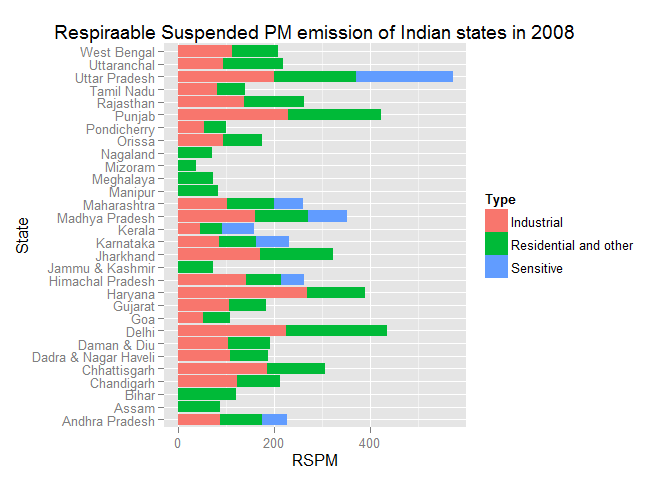
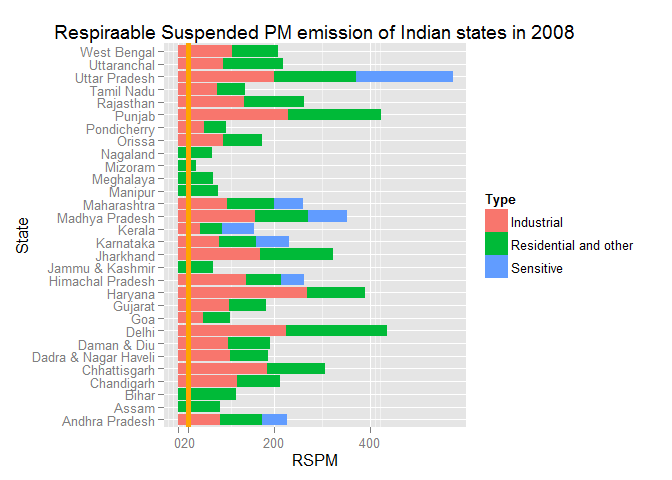
Added info from WHO Air quality giudeline

Changed region(s): [[0.25, 0.0938, 0.2812, 0.875], [0.25, 0.9062, 0.3125, 0.9375]]

diff --git a/Air_quality.html b/Air_quality.html
@@ -72,6 +72,7 @@ img {
 <hr />
 <div id="synopsis" class="section level3">
 <h3>Synopsis</h3>
+<p>The IARC and WHO designate airborne particulates a Group 1 carcinogen. Particulates are the deadliest form of air pollution due to their ability to penetrate deep into the lungs and blood streams unfiltered, causing permanent DNA mutations, heart attacks, and premature death.[4] In 2013, a study involving 312,944 people in nine European countries revealed that there was no safe level of particulates and that for every increase of 10 ??g/m3 in PM10, the lung cancer rate rose 22%. The smaller PM2.5 were particularly deadly, with a 36% increase in lung cancer per 10 ??g/m3 as it can penetrate deeper into the lungs.<a href="#fn1" class="footnoteRef" id="fnref1"><sup>1</sup></a>(<a href="https://en.wikipedia.org/wiki/Particulates" class="uri">https://en.wikipedia.org/wiki/Particulates</a>)</p>
 <p>The ambient air quality monitoring network comprises of 342 monitoring stations covering 128 cities/towns of the country. The data is sourced from National ambient air quality status &amp; trends in India-2008(NAMP). NA- Data not available/outlier/not classified(Less than 50 Monitoring days) ; n- number of days monitored for 16 and more hours a day; Low, Moderate, High and Critical levels of pollution based on exceedence factor (calculated for n &gt;50 days), percentage violation of NAAQS (24 hourly average).<br />Here we make a descriptive analysis of the air quality of all the states as per the type of pollutants.</p>
 <pre class="r"><code>library(ggplot2)
 library(dplyr)</code></pre>
@@ -96,13 +97,29 @@ colnames(air.quality)[5:7] &lt;- c('Confidence', 'RSPM', 'Percentage')
 air.quality &lt;- group_by(air.quality, State, Type)
 air.quality &lt;- summarise(air.quality, RSPM = mean(RSPM))
 ggplot(air.quality, aes(x = State, y = RSPM)) + geom_bar(stat = 'identity', aes(fill = Type)) +
-labs(title = 'Respiraable Suspended PM emission of Indian states in 2008', xlab = 'States', ylab = 'Particulate matter') + coord_flip()</code></pre>
[1 lines of base64/hex data omitted]
+  geom_hline(yintercept = 20, color = 'orange', size = 2) +
+  scale_y_continuous(breaks = c(0, 20, 200, 400)) +
+  labs(title = 'Respiraable Suspended PM emission of Indian states in 2008', xlab = 'States', ylab = 'Particulate matter (??g/m^3)') + coord_flip()</code></pre>
[1 lines of base64/hex data omitted]
 <hr />
 </div>
 <div id="result" class="section level3">
 <h3>Result</h3>
-<p>Uttar Pradesh has the highest cumulative PM(particulate matter) emission in the country, while Haryana has the highest Industrial PM emission followed by Delhi.</p>
+<p>Uttar Pradesh has the highest cumulative PM(particulate matter) emission in the country, while Haryana has the highest Industrial PM emission followed by Delhi. The recommeded PM10 levels in atmosphere is given to by 20 ??g/m^3 as per <a href="http://www.who.int/mediacentre/factsheets/fs313/en/">WHO</a>. We can see that none of the states have comply with the <em>WHO Air Quality Giudelines</em> value for Pm^10 levels.</p>
+<hr />
+</div>
+<div id="references" class="section level3">
+<h3>References</h3>
+<ol style="list-style-type: decimal">
+<li><a href="https://data.gov.in/catalog/air-quality-respect-respirable-suspended-particulate-matterrspm-air-quality-stations-under#web_catalog_tabs_block_10">Open data Gov, India</a></li>
+<li><a href="http://www.who.int/mediacentre/factsheets/fs313/en/">WHO</a>??g/m^3</li>
+</ol>
+</div>
+<div class="footnotes">
+<hr />
+<ol>
+<li id="fn1"><p>1<a href="#fnref1">↩</a></p></li>
+</ol>
 </div>
 
 

diff --git a/Air_quality.md b/Air_quality.md
@@ -8,6 +8,8 @@ Air Quality with respect to Respirable Suspended Particulate Matter(RSPM) in air
 
 ### Synopsis
 
+The IARC and WHO designate airborne particulates a Group 1 carcinogen. Particulates are the deadliest form of air pollution due to their ability to penetrate deep into the lungs and blood streams unfiltered, causing permanent DNA mutations, heart attacks, and premature death.[4] In 2013, a study involving 312,944 people in nine European countries revealed that there was no safe level of particulates and that for every increase of 10 ??g/m3 in PM10, the lung cancer rate rose 22%. The smaller PM2.5 were particularly deadly, with a 36% increase in lung cancer per 10 ??g/m3 as it can penetrate deeper into the lungs.^[1](https://en.wikipedia.org/wiki/Particulates)
+
 The ambient air quality monitoring network comprises of 342 monitoring stations covering 128 cities/towns of the country. The data is sourced from National ambient air quality status & trends in India-2008(NAMP). NA- Data not available/outlier/not classified(Less than 50 Monitoring days) ; n- number of days monitored for 16 and more hours a day; Low, Moderate, High and Critical levels of pollution based on exceedence factor (calculated for n >50 days), percentage violation of NAAQS (24 hourly average).  
 Here we make a descriptive analysis of the air quality of all the states as per the type of pollutants.  
 
@@ -46,7 +48,9 @@ colnames(air.quality)[5:7] <- c('Confidence', 'RSPM', 'Percentage')
 air.quality <- group_by(air.quality, State, Type)
 air.quality <- summarise(air.quality, RSPM = mean(RSPM))
 ggplot(air.quality, aes(x = State, y = RSPM)) + geom_bar(stat = 'identity', aes(fill = Type)) +
-labs(title = 'Respiraable Suspended PM emission of Indian states in 2008', xlab = 'States', ylab = 'Particulate matter') + coord_flip()
+  geom_hline(yintercept = 20, color = 'orange', size = 2) +
+  scale_y_continuous(breaks = c(0, 20, 200, 400)) +
+  labs(title = 'Respiraable Suspended PM emission of Indian states in 2008', xlab = 'States', ylab = 'Particulate matter (??g/m^3)') + coord_flip()
 ```
 
 ![](Air_quality_files/figure-html/unnamed-chunk-2-1.png) 
@@ -55,4 +59,11 @@ labs(title = 'Respiraable Suspended PM emission of Indian states in 2008', xlab 
 
 ### Result
 
-Uttar Pradesh has the highest cumulative PM(particulate matter) emission in the country, while Haryana has the highest Industrial PM emission followed by Delhi.
+Uttar Pradesh has the highest cumulative PM(particulate matter) emission in the country, while Haryana has the highest Industrial PM emission followed by Delhi. The recommeded PM10 levels in atmosphere is given to by 20 ??g/m^3 as per [WHO](http://www.who.int/mediacentre/factsheets/fs313/en/). We can see that none of the states have comply with the *WHO Air Quality Giudelines* value for  Pm^10 levels.
+
+********
+
+### References
+
+1. [Open data Gov, India](https://data.gov.in/catalog/air-quality-respect-respirable-suspended-particulate-matterrspm-air-quality-stations-under#web_catalog_tabs_block_10)
+2. [WHO](http://www.who.int/mediacentre/factsheets/fs313/en/)??g/m^3
